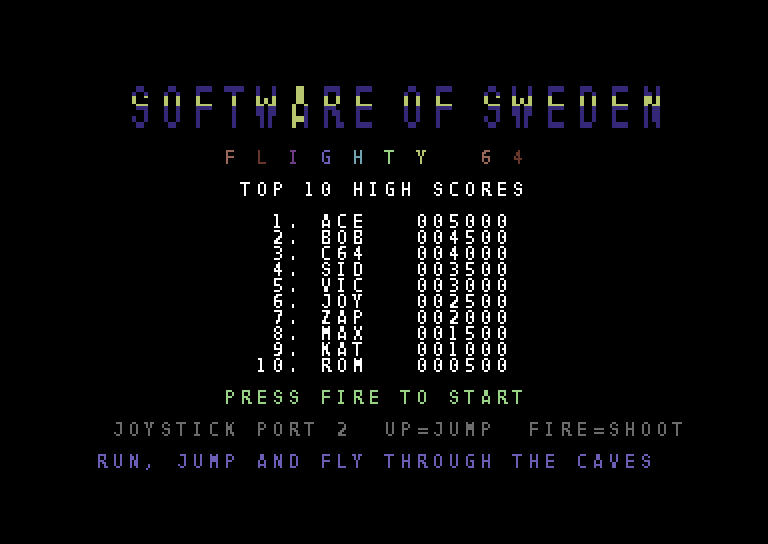
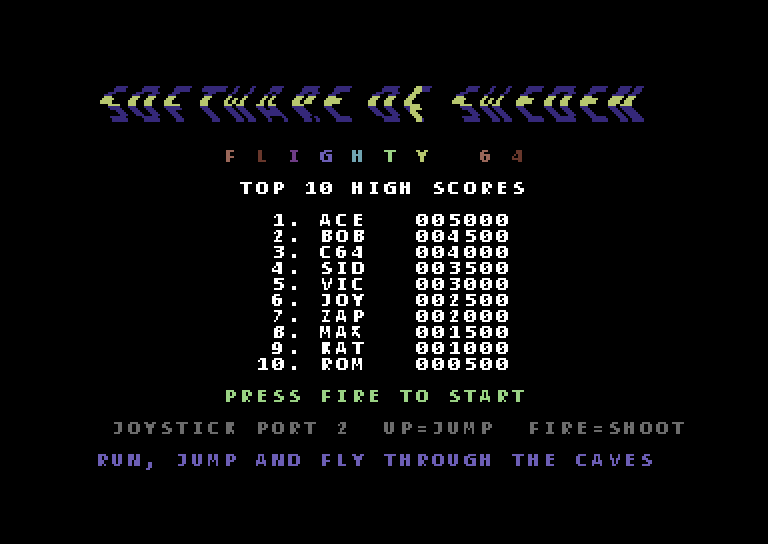
Logon: sinusvåg per rasterlinje och långsammare flaggbalk
- Bokstäverna i SOFTWARE OF SWEDEN får egen finscroll ($d016) per
  rasterlinje ur waveTab (0-7 px), så vänsterkanten bildar en vandrande
  sinuskurva. Hela textens svängning i sidled är borttagen.
- Rasterloopen skriver $d016/$d021 i början av varje linje; för badlines
  skrivs värdena i högerkanten på linjen före och badlinen hoppas över.
- Lodräta flaggbalken (sprite 0) går 8 gånger långsammare: ett varv på
  1024 bildrutor, ca 1 px per bildruta (kvartsperiodstabell i hela
  pixlar). Vågräta gula rasterbalken är oförändrad.
- emu.py: $d012 läses i instruktionens 4:e cykel som på en riktig 6502,
  och skärmbilder fungerar på Windows (Consolas som ersättningstypsnitt).
- make_gfx.py skriver alltid UTF-8. Smoke-testet kontrollerar vågen per
  linje och flaggbalkens hastighet. README och logo-bilderna uppdaterade.

diff --git a/tools/smoke_test.py b/tools/smoke_test.py
@@ -89,11 +89,14 @@ def main():
     if shots:
         c.render(os.path.join(shots, 'menu.png'))
 
-    # startskärmens logo: blå/gul flagga i logons rasterlinjer, svart utanför
+    # startskärmens logo: blå/gul flagga i logons rasterlinjer, svart utanför,
+    # bokstäverna böljar (egen finscroll per rasterlinje), lodräta balken
+    # glider långsamt (ett varv = 1024 bildrutor)
+    wave = c.ram[addr(c, 'waveTab'):addr(c, 'waveTab') + 64]
     bars = set()
-    sprite_x = set()
+    sprite_x = []
     gif = []
-    for f in range(128):
+    for f in range(1024):
         c.run_frame()
         d021 = [c.line_regs[line][4] & 15 for line in range(55, 87)]
         assert d021[:4] == [0] * 4 and d021[-4:] == [0] * 4, "färgbyte utanför logon: %s" % d021
@@ -101,15 +104,23 @@ def main():
         assert set(inside) == {6, 7}, "logon ska ha blå och gul: %s" % inside
         assert inside.count(7) == 5, "vågräta balken ska vara 5 rader"
         bars.add(inside.index(7))
-        sprite_x.add(c.io[0] | ((c.io[0x10] & 1) << 8))
-        if shots and f % 2 == 0:
+        d016 = [c.line_regs[line][1] for line in range(59, 83)]
+        assert all(v & 0xf8 == 0 for v in d016), "logon ska vara 38 kolumner: %s" % d016
+        xs = [v & 7 for v in d016]
+        assert any(all(xs[i] == wave[(p + 3 * i) & 63] for i in range(24)) for p in range(64)),             "bokstäverna följer inte sinusvågen: %s" % xs
+        assert c.line_regs[83][1] == 0x08, "menyn under logon ska ha 40 kolumner utan scroll"
+        sprite_x.append(c.io[0] | ((c.io[0x10] & 1) << 8))
+        if shots and f < 128 and f % 2 == 0:
             from PIL import Image
             c.render(os.path.join(shots, '.frame.png'), scale=1)
             gif.append(Image.open(os.path.join(shots, '.frame.png')).crop((32, 24, 352, 104)).convert('P'))
     assert c.io[0x1b] & 1 and c.io[0x17] & 1, "flaggbalken ska vara höjdförstorad och bakom texten"
     assert min(bars) == 0 and max(bars) == 19, "balken studsar inte hela vägen: %s" % sorted(bars)
-    assert max(sprite_x) - min(sprite_x) > 200, "lodräta balken rör sig inte i sidled"
-    print("logo: vågrät balk rad %d-%d, lodrät balk x %d-%d" % (min(bars), max(bars), min(sprite_x), max(sprite_x)))
+    steps = [abs(a - b) for a, b in zip(sprite_x, sprite_x[1:])]
+    assert max(steps) <= 1, "lodräta balken ska gå långsamt (max %d px/bildruta)" % max(steps)
+    assert max(sprite_x) - min(sprite_x) > 260, "lodräta balken rör sig inte över hela texten"
+    print("logo: vågrät balk rad %d-%d, lodrät balk x %d-%d (max %d px/bildruta)" % (
+        min(bars), max(bars), min(sprite_x), max(sprite_x), max(steps)))
     if shots:
         os.remove(os.path.join(shots, '.frame.png'))
         gif = [im.resize((640, 160)) for im in gif]

diff --git a/tools/make_gfx.py b/tools/make_gfx.py
@@ -31,9 +31,9 @@ SPRITE_BASE_ADDR = 0x5000     # spritedata kopieras hit vid start
 FIRST_CHAR = 64               # egna tecken: 64 och uppåt
 
 LOGO_WIDTH = 272              # "SOFTWARE OF SWEDEN": 16 bokstäver x 16 px + 2 mellanslag x 8 px
-LOGO_SWAY = 31                # svängning 0-31 pixlar (38-kolumnsfönstret är 304 px)
+LOGO_WAVE = 7                 # bokstävernas våg: 0-7 pixlar (finscroll per rasterlinje)
 FLAG_BAR_W = 6
-FLAG_X_MAX = (LOGO_WIDTH - FLAG_BAR_W) // 2   # tabellen lagrar x/2
+FLAG_HALF = (LOGO_WIDTH - FLAG_BAR_W) // 2    # lodräta balken: ± så här långt från mitten
 BOUNCE = 19                   # 24 rader hög logo - 5 rader balk
 
 SPR_MAP = {'.': 0, 'w': 1, 'b': 2, 's': 3}
@@ -534,13 +534,14 @@ def main():
     data.append("")
 
     # Tabeller för startskärmens logo (256 steg per period)
-    data.append("// Logons svängning i sidled: 0-%d pixlar (hel sinusperiod)" % LOGO_SWAY)
-    data.append("swayTab:")
-    data += fmt_bytes([int(round(LOGO_SWAY / 2 * (1 + math.sin(2 * math.pi * i / 256))))
-                       for i in range(256)], 16)
-    data.append("// Flaggans lodräta balk, x/2 inom texten (hel sinus: mjuka vändningar)")
+    data.append("// Bokstävernas våg: $d016-finscroll 0-%d per rasterlinje (64 steg per period)" % LOGO_WAVE)
+    data.append("waveTab:")
+    data += fmt_bytes([int(round(LOGO_WAVE / 2 * (1 + math.sin(2 * math.pi * i / 64))))
+                       for i in range(64)], 16)
+    data.append("// Flaggans lodräta balk: avstånd 0-%d px från mitten, en kvarts sinusperiod." % FLAG_HALF)
+    data.append("// Koden speglar den till en hel period (mjuka vändningar).")
     data.append("flagXTab:")
-    data += fmt_bytes([int(round(FLAG_X_MAX / 2 * (1 + math.sin(2 * math.pi * i / 256 - math.pi / 2))))
+    data += fmt_bytes([int(round(FLAG_HALF * math.sin(math.pi / 2 * (i + 0.5) / 256)))
                        for i in range(256)], 16)
     data.append("// Flaggans vågräta balk: översta raden 0-%d. Halv sinus (|sin|):" % BOUNCE)
     data.append("// skarp vändning i nederkant, mjuk i överkant")
@@ -549,9 +550,9 @@ def main():
                        for i in range(256)], 16)
     data.append("")
 
-    with open(os.path.join(SRC, "gfx_const.asm"), "w") as f:
+    with open(os.path.join(SRC, "gfx_const.asm"), "w", encoding="utf-8") as f:
         f.write("\n".join(const) + "\n")
-    with open(os.path.join(SRC, "gfx_data.asm"), "w") as f:
+    with open(os.path.join(SRC, "gfx_data.asm"), "w", encoding="utf-8") as f:
         f.write("\n".join(data) + "\n")
     print("Wrote gfx_const.asm and gfx_data.asm")
 

diff --git a/tools/emu.py b/tools/emu.py
@@ -31,10 +31,12 @@ def make_font():
     """Eget 8x8-typsnitt (bara för skärmdumpar) med C64-skärmkodsordning."""
     from PIL import Image, ImageDraw, ImageFont
     font = None
-    for p in ["/usr/share/fonts/truetype/dejavu/DejaVuSansMono-Bold.ttf",
-              "/usr/share/fonts/truetype/liberation/LiberationMono-Bold.ttf"]:
+    top = -2
+    for p, size in [("/usr/share/fonts/truetype/dejavu/DejaVuSansMono-Bold.ttf", 9),
+                    ("/usr/share/fonts/truetype/liberation/LiberationMono-Bold.ttf", 9),
+                    ("C:/Windows/Fonts/consolab.ttf", 10)]:
         if os.path.exists(p):
-            font = ImageFont.truetype(p, 9)
+            font = ImageFont.truetype(p, size)
             break
     rom = bytearray(4096)
     for code in range(64):
@@ -49,7 +51,7 @@ def make_font():
         img = Image.new('1', (8, 8), 0)
         d = ImageDraw.Draw(img)
         if font:
-            d.text((0, -2), ch, fill=1, font=font)
+            d.text((0, top), ch, fill=1, font=font)
         for y in range(8):
             v = 0
             for x in range(8):
@@ -125,7 +127,9 @@ class C64:
         if r < 0x400:
             r &= 0x3f
             if r == 0x12:
-                return self.line & 0xff
+                # py65 läser när instruktionen börjar; en riktig 6502 läser
+                # en absolut adress (cpx/lda $d012) i instruktionens 4:e cykel
+                return ((self.cycles + 3) // CYCLES_PER_LINE) % LINES & 0xff
             if r == 0x11:
                 return (self.io[0x11] & 0x7f) | ((self.line >> 8) << 7)
             if r == 0x19:

diff --git a/README.md b/README.md
@@ -29,11 +29,12 @@ Använd en joystick i **port 2**.
 
 ### Huvudmenyn
 
-Överst står **SOFTWARE OF SWEDEN** i stora bokstäver. Texten svänger mjukt fram
-och tillbaka i sidled, och genom bokstäverna syns en svensk flagga som
-studsar: det gula korsets vågräta balk studsar upp och ner som en boll
+Överst står **SOFTWARE OF SWEDEN** i stora bokstäver. Bokstäverna böljar i
+sidled: varje rasterlinje är förskjuten lite olika, så textens vänsterkant
+bildar en sinuskurva som vandrar uppåt. Genom bokstäverna syns en svensk
+flagga: det gula korsets vågräta balk studsar upp och ner som en boll
 (skarp vändning i nederkant, mjuk i överkant), och den lodräta balken glider
-höger–vänster.
+långsamt höger–vänster (ett varv tar ca 20 sekunder).
 
 Menyn visar de **10 bästa resultaten** (namn och poäng). Det senast
 inskrivna resultatet visas i gult. Starta en omgång med **FIRE**.
@@ -254,18 +255,23 @@ avbrottsvektorer på `$fffa-$ffff`.
   Varje pixel blir 2×3 pixlar, så en bokstav blir 16×24 pixlar (2×3 tecken).
   Tecknen är **inverterade**: förgrunden är svart runt bokstaven, och själva
   bokstaven är ett hål där bakgrundsfärgen `$d021` syns.
-* **Svängningen i sidled** görs med finscroll (`$d016`) plus förskjutning i
-  hela tecken. Logoraderna visas i 38-kolumnsläge, så kanten som avslöjas
-  när texten flyttas döljs.
-* **Den vågräta gula balken:** raster-avbrottet på linje 55 kör en loop över
-  logons 24 rasterlinjer. Den skriver `$d021` (blått eller gult) i början av
-  varje linje, i vänsterkanten innan bilden ritas. Vilka linjer som är gula
-  läses ur `bounceTab`, som är en halv sinus (1 − |sin|): skarp vändning i
+* **Vågen i sidled:** raster-avbrottet på linje 55 kör en loop över
+  rasterlinjerna 58-83. För varje linje skriver den `$d016` (finscroll 0-7
+  pixlar ur `waveTab`) och `$d021` (blått eller gult). Fasen ökar 3 steg
+  per linje och 1 steg per bildruta, så vågen vandrar. Logoraderna visas i
+  38-kolumnsläge, så kanten som avslöjas när en linje flyttas döljs.
+* **Tidpunkten:** på vanliga linjer skrivs registren direkt när linjen
+  börjar (cykel ca 6-16), innan texten i kolumn 2 ritas. På en badline
+  (första linjen i varje teckenrad) står CPU:n still cykel ca 15-55, så
+  där skrivs värdena i stället i högerkanten på linjen före.
+* **Den vågräta gula balken:** vilka linjer som är gula läses ur
+  `bounceTab`, som är en halv sinus (1 − |sin|): skarp vändning i
   nederkant, mjuk i överkant.
 * **Den lodräta gula balken** är sprite 0, höjdförstorad och placerad
   *bakom* förgrunden (`$d01b`). Den syns därför bara genom bokstavshålen.
-  Dess x-position följer en vanlig sinus (`flagXTab`), så den vänder mjukt
-  i båda ändarna.
+  Dess x-position följer en vanlig sinus, så den vänder mjukt i båda
+  ändarna. `flagXTab` är en kvarts period (256 steg, hela pixlar) som koden
+  speglar till ett helt varv på 1024 bildrutor, ca 1 pixel per bildruta.
 * Höjd- och sidledsrörelsen har olika hastighet, så flaggan rör sig som en
   boll som studsar runt.
 
